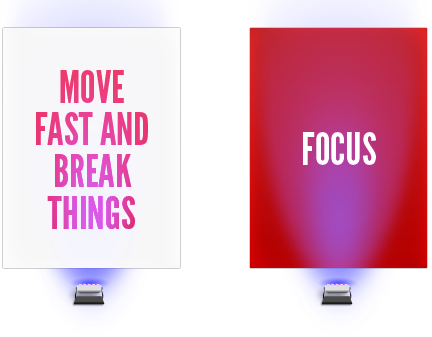
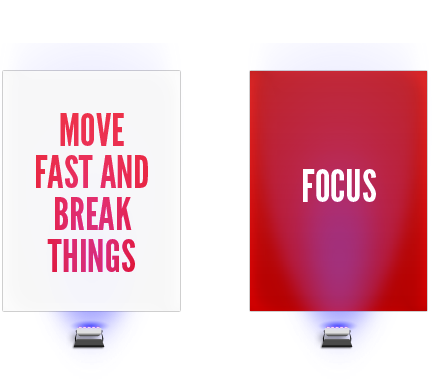
Wall murals fixed and moved target window

diff --git a/static/less/base.less b/static/less/base.less
@@ -161,14 +161,14 @@ button {
 #mural_left {
     position: absolute;
     left: -460px;
-    top: 24px;
+    top: -14px;
     z-index: 2;
 }
 
 #mural_right {
     position: absolute;
     left: 780px;
-    top: 24px;
+    top: -14px;
     z-index: 2;
 }
 
@@ -256,6 +256,7 @@ button {
     display: none;
     position: absolute;
     top: -300px;
+    left: -10px;
     width: 150px;
     background-color: #ededed;
     .rounded(5px);

diff --git a/static/css/base.css b/static/css/base.css
@@ -144,13 +144,13 @@ button:hover {
 #mural_left {
   position: absolute;
   left: -460px;
-  top: 24px;
+  top: -14px;
   z-index: 2;
 }
 #mural_right {
   position: absolute;
   left: 780px;
-  top: 24px;
+  top: -14px;
   z-index: 2;
 }
 #floor {
@@ -242,6 +242,7 @@ button:hover {
 #target_window {
   position: absolute;
   top: -300px;
+  left: -10px;
   width: 150px;
   background-color: #ededed;
   -webkit-border-radius: 5px;

diff --git a/static/css/create.css b/static/css/create.css
@@ -144,13 +144,13 @@ button:hover {
 #mural_left {
   position: absolute;
   left: -460px;
-  top: 24px;
+  top: -14px;
   z-index: 2;
 }
 #mural_right {
   position: absolute;
   left: 780px;
-  top: 24px;
+  top: -14px;
   z-index: 2;
 }
 #floor {
@@ -242,6 +242,7 @@ button:hover {
 #target_window {
   position: absolute;
   top: -300px;
+  left: -10px;
   width: 150px;
   background-color: #ededed;
   -webkit-border-radius: 5px;
